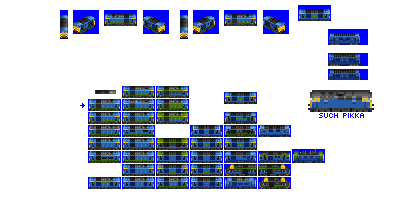
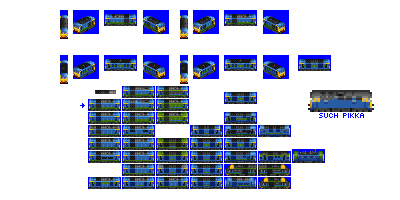
Change: sprites complete for Vanguard

diff --git a/src/vehicles/vanguard.py b/src/vehicles/vanguard.py
@@ -12,7 +12,7 @@ def main(roster_id):
                             gen=5,
                             intro_date_offset=2,  # let's not have everything turn up in 1990
                             fixed_run_cost_points=100, # give a bonus so this can be a genuine mixed-traffic engine
-                            sprites_complete=False)
+                            sprites_complete=True)
 
     consist.add_unit(type=DieselEngineUnit,
                      weight=105,
